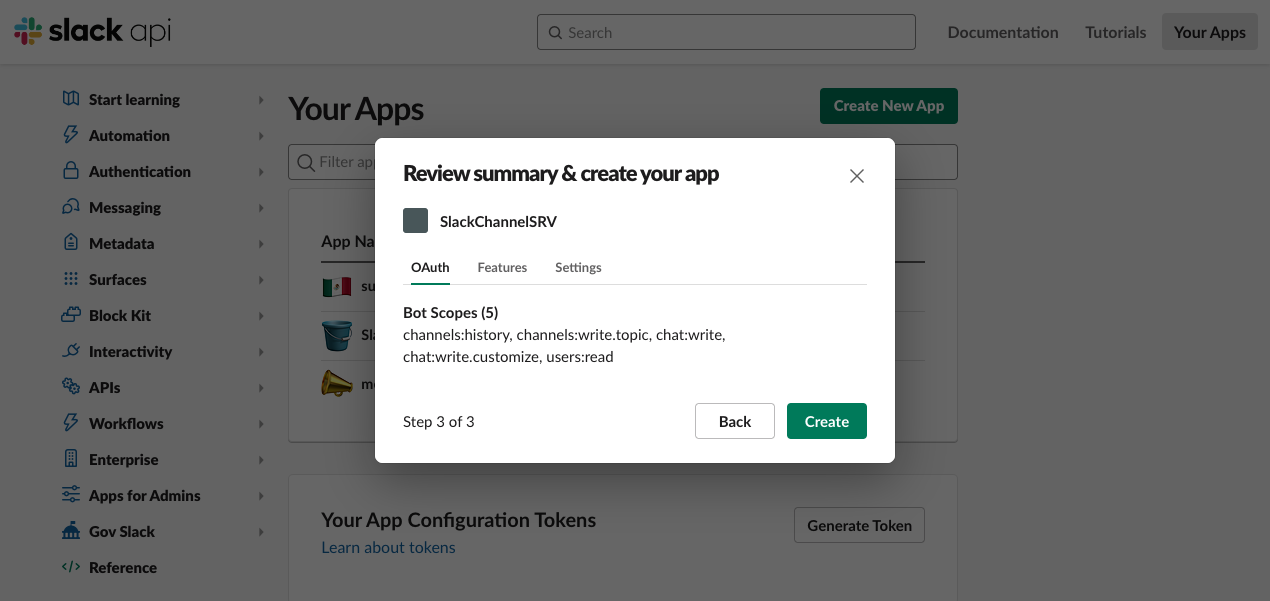
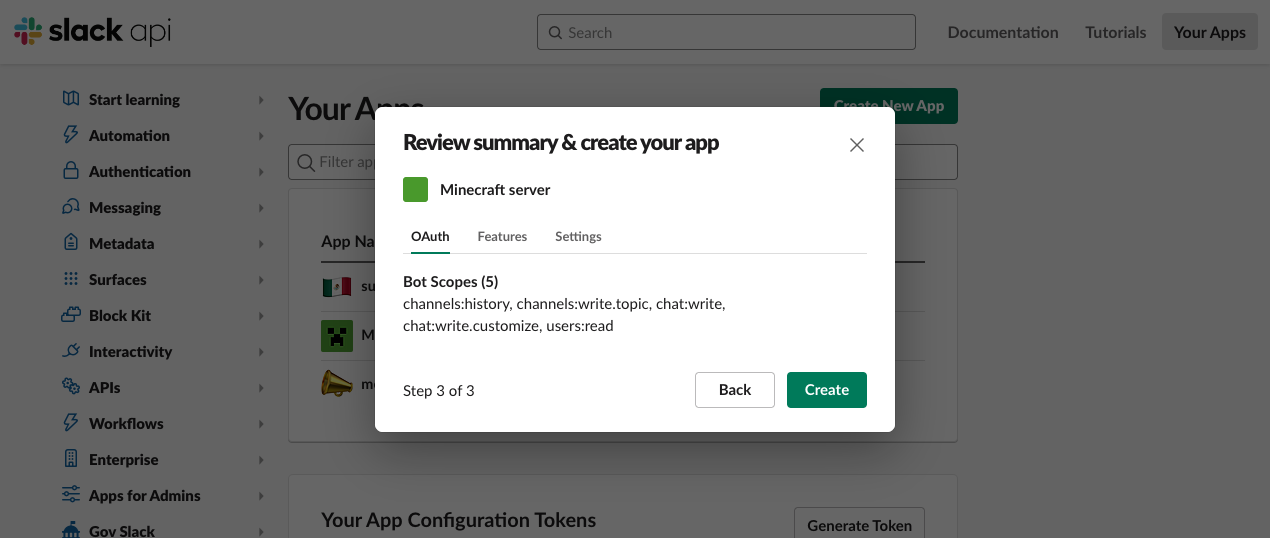
update doc images

diff --git a/docs/slack_app.md b/docs/slack_app.md
@@ -15,8 +15,8 @@ create app at [https://api.slack.com/apps](https://api.slack.com/apps) by clicki
 {
   "display_information": {
     "name": "Minecraft server",
-    "description": "Minecraft server with SlackIntegration plugin",
-    "background_color": "#944b16"
+    "description": "with Slack Integration plugin",
+    "background_color": "#49992c"
   },
   "features": {
     "app_home": {
@@ -26,7 +26,7 @@ create app at [https://api.slack.com/apps](https://api.slack.com/apps) by clicki
     },
     "bot_user": {
       "display_name": "Minecraft server",
-      "always_online": false
+      "always_online": true
     }
   },
   "oauth_config": {
@@ -60,6 +60,10 @@ create app at [https://api.slack.com/apps](https://api.slack.com/apps) by clicki
 !!! note "click `"Create"` to confirm"
     ![create_an_app_confirm](images/create_an_app_confirm.png)
 
+## Set App Icon (optional)
+!!! tip ""
+    ![minecraft_icon_for_slack_app](images/minecraft_icon_for_slack_app.png){ align=left width="200" }
+    Setting the AppIcon to this image will further improve the look of the post when updating the topic 🥴
 
 ## Get Oauth Token
 !!! note "click `"Install to Workspace"`"
@@ -70,7 +74,7 @@ create app at [https://api.slack.com/apps](https://api.slack.com/apps) by clicki
 paste to `SlackToken` in `config.yml`
 
 ## Get App-Level Token
-!!! note "click `"Generate Token and Scopes"`"
+!!! note "click `"Generate Token and Scopes"` from "Basic Information" section"
     ![generate_app_level_token](images/generate_app_level_token.png)
 
 !!! note "After setting the Name and Scopes as shown in the image, click the `"Generate"`"
@@ -92,5 +96,5 @@ paste to `SlackSocketToken` in `config.yml`
 paste to `SlackChannelId` in `config.yml`
 
 ## invite bot to Slack Channel
-!!! note "On the slack channel you want to connect to, type `/invite` and select `"Add apps to this channel"` add `SlackIntegration`."
+!!! note "On the slack channel you want to connect to, type `/invite` and select `"Add apps to this channel"` add `Minecraft server`."
     ![invite_bot_to_channel](images/invite_bot_to_channel.png)

diff --git a/docs/index.md b/docs/index.md
@@ -10,7 +10,8 @@
 [Issue Tracker](https://github.com/howyi/SlackIntegration/issues)  
 
 ## support
-minecraft: 1.20 ~  bukkit, spigot
+minecraft: 1.20 ~  
+bukkit, spigot
 
 ## features
 !!! note "chat sync (minecraft chat <-> slack channel)"
